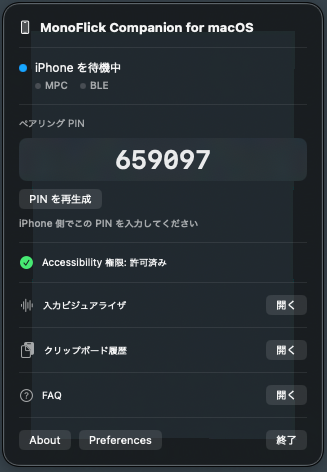
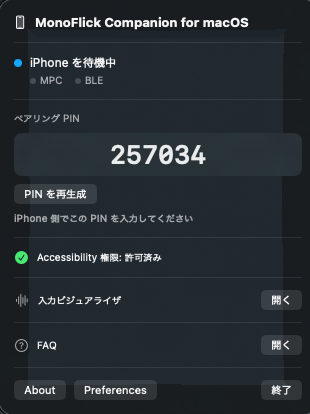
update

diff --git a/docs/monoflick/css/style.css b/docs/monoflick/css/style.css
@@ -366,6 +366,69 @@ section + section { border-top: 1px solid var(--border); }
   text-decoration: none;
 }
 
+/* ===== Homebrew install (under Requirements) ===== */
+.brew {
+  max-width: 880px;
+  margin: 32px auto 0;
+}
+.brew-head {
+  text-align: center;
+  margin-bottom: 20px;
+}
+.brew-head h3 {
+  margin: 0 0 6px;
+  font-size: 1.2rem;
+  letter-spacing: -0.01em;
+  color: var(--on-bg);
+}
+.brew-head p {
+  margin: 0;
+  color: var(--on-bg-muted);
+  font-size: 0.9rem;
+}
+.brew-grid {
+  display: grid;
+  grid-template-columns: repeat(3, 1fr);
+  gap: 16px;
+}
+.brew-card {
+  background: var(--card-bg);
+  border: 1px solid var(--card-border);
+  border-radius: 12px;
+  padding: 16px 16px 14px;
+  box-shadow: var(--shadow);
+  color: var(--card-fg);
+  display: flex;
+  flex-direction: column;
+  gap: 10px;
+}
+.brew-label {
+  font-size: 0.75rem;
+  font-weight: 700;
+  letter-spacing: 0.08em;
+  text-transform: uppercase;
+  color: var(--accent);
+}
+.brew-code {
+  margin: 0;
+  padding: 12px 14px;
+  background: rgba(0, 0, 0, 0.06);
+  border: 1px solid var(--card-border);
+  border-radius: 8px;
+  overflow-x: auto;
+  font-family: ui-monospace, SFMono-Regular, "SF Mono", Menlo, Consolas, monospace;
+  font-size: 0.82rem;
+  line-height: 1.55;
+  color: var(--card-fg);
+  white-space: pre;
+}
+@media (prefers-color-scheme: dark) {
+  .brew-code { background: rgba(255, 255, 255, 0.06); }
+}
+@media (max-width: 760px) {
+  .brew-grid { grid-template-columns: 1fr; }
+}
+
 /* ===== English summary ===== */
 .en-summary {
   text-align: center;

diff --git a/docs/monoflick/index.html b/docs/monoflick/index.html
@@ -396,6 +396,30 @@
         <a class="guide-link" href="./spec_macos.html">Mac 機能ガイドを見る</a>
       </div>
     </div>
+
+    <div class="brew">
+      <div class="brew-head">
+        <h3>Homebrew で入れる (macOS)</h3>
+        <p>Homebrew Cask 経由でもインストールできます。アップデート・アンインストールも brew で完結します。</p>
+      </div>
+      <div class="brew-grid">
+        <div class="brew-card">
+          <div class="brew-label">Install</div>
+<pre class="brew-code"><code>brew tap yoshinag/monoflick-companion-for-macos
+brew install --cask monoflick-companion</code></pre>
+        </div>
+        <div class="brew-card">
+          <div class="brew-label">Update</div>
+<pre class="brew-code"><code>brew update
+brew upgrade --cask monoflick-companion</code></pre>
+        </div>
+        <div class="brew-card">
+          <div class="brew-label">Uninstall</div>
+<pre class="brew-code"><code>brew uninstall --cask monoflick-companion
+brew untap yoshinag/monoflick-companion-for-macos</code></pre>
+        </div>
+      </div>
+    </div>
   </div>
 </section>
 
